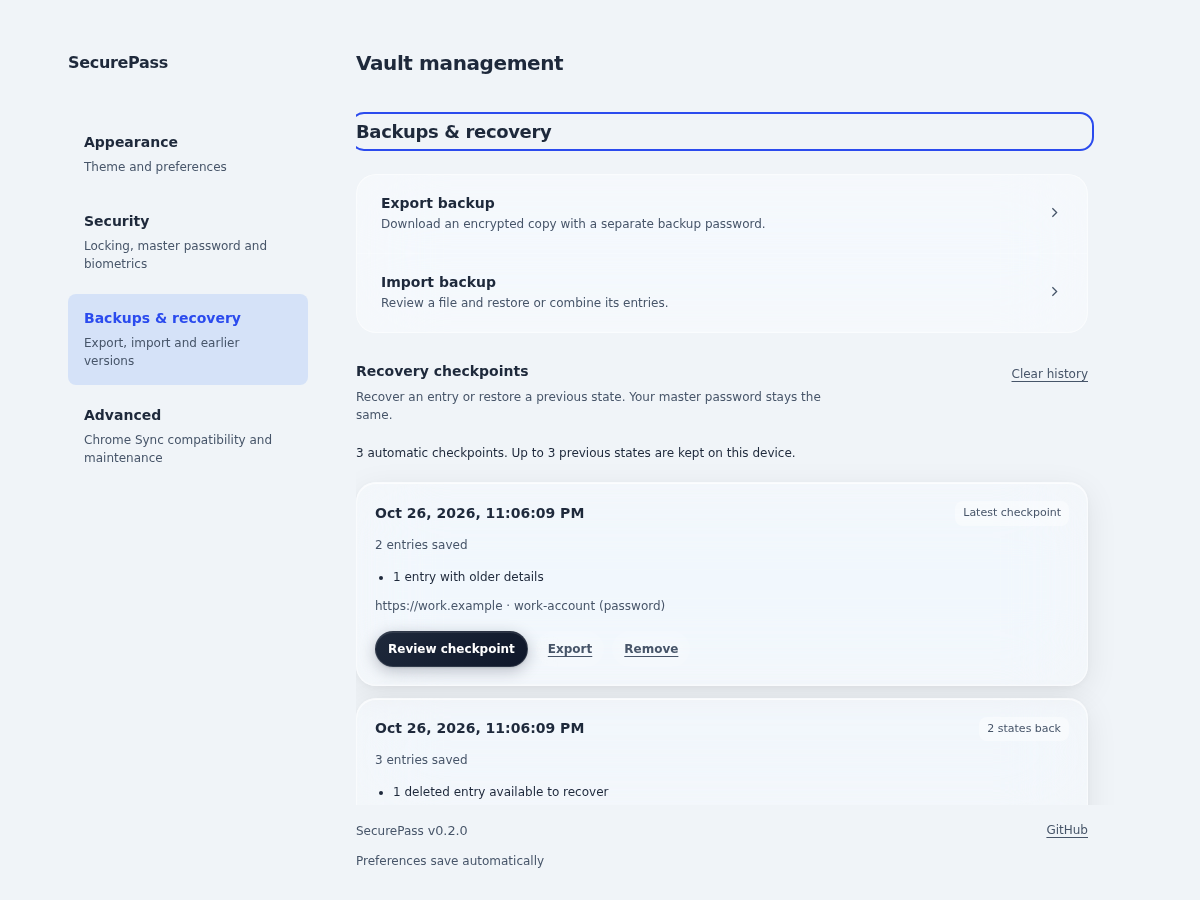
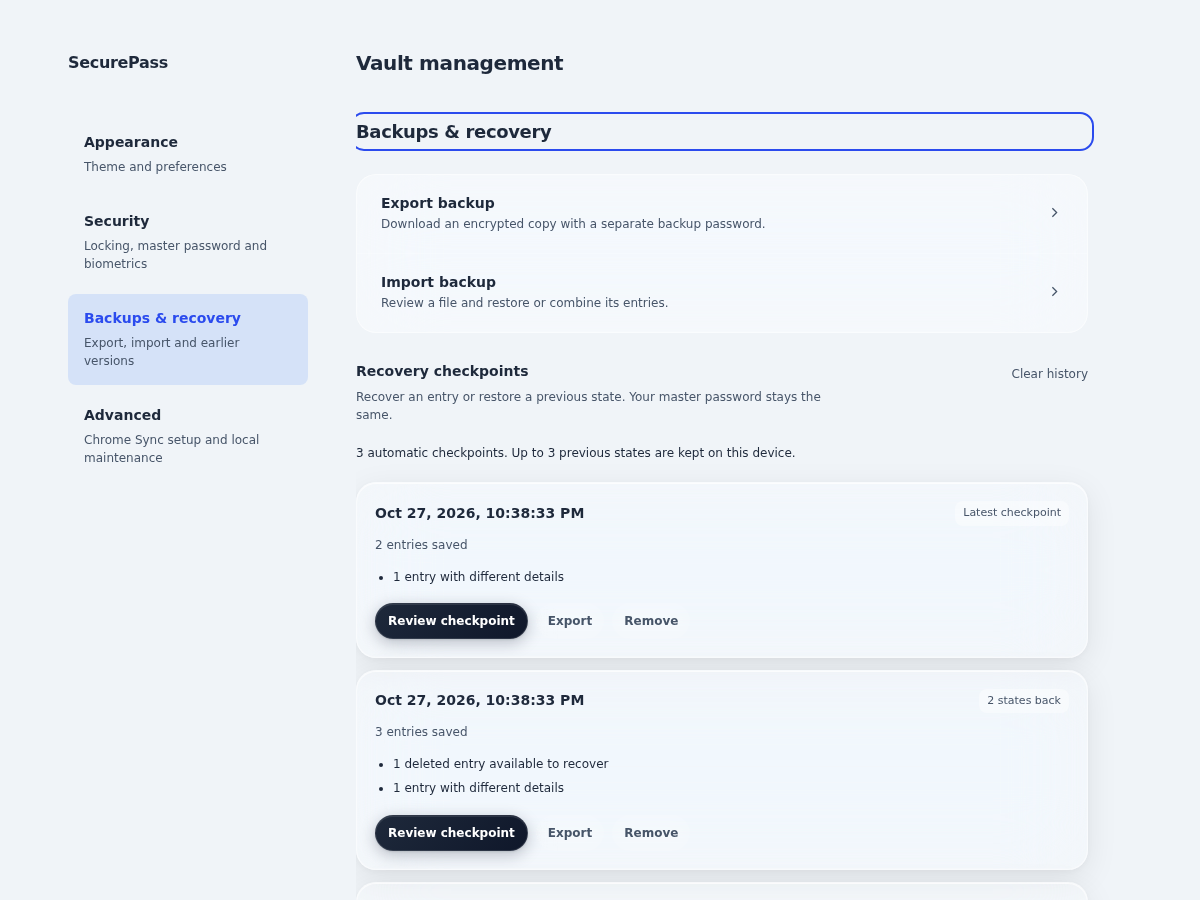
fix: simplify checkpoint cards and clarify restore details

diff --git a/popup/modules/checkpoints.js b/popup/modules/checkpoints.js
@@ -8,7 +8,6 @@ import { reviewCheckpoint, attachCheckpointReviewListeners } from './checkpointR
 const $ = id => document.getElementById(id);
 const date = value => value && Number.isFinite(new Date(value).getTime()) ? new Intl.DateTimeFormat(undefined, { dateStyle: 'medium', timeStyle: 'medium' }).format(new Date(value)) : 'Date unavailable';
 const plural = (count, word) => `${count} ${count === 1 ? word : word.endsWith('entry') ? word.replace(/entry$/, 'entries') : `${word}s`}`;
-const account = entry => `${entry.site}${entry.username ? ` · ${entry.username}` : ''}`;
 
 export function renderCheckpoints(snapshots) {
   const list = $('snapshotList');
@@ -44,14 +43,10 @@ export function renderCheckpoints(snapshots) {
     row.append(heading, description);
     if (local && !locked && !item.needsPassword) {
       const differences = document.createElement('ul'); differences.className = 'checkpoint-differences';
-      const lines = [item.missing ? `${plural(item.missing, 'deleted entry')} available to recover` : '', item.changed ? `${plural(item.changed, 'entry')} with older details` : '', item.newer ? `${plural(item.newer, 'entry')} added since this checkpoint` : ''].filter(Boolean);
+      const lines = [item.missing ? `${plural(item.missing, 'deleted entry')} available to recover` : '', item.changed ? `${plural(item.changed, 'entry')} with different details` : '', item.newer ? `${plural(item.newer, 'entry')} added since this checkpoint` : ''].filter(Boolean);
       if (!lines.length) lines.push('Same contents as your current vault');
       for (const line of lines) { const li = document.createElement('li'); li.textContent = line; differences.append(li); }
       row.append(differences);
-      if (item.examples?.length) {
-        const examples = document.createElement('p'); examples.className = 'checkpoint-examples row-sub';
-        examples.textContent = item.examples.map(entry => `${account(entry)}${entry.change === 'changed' ? ` (${entry.fields.join(', ')})` : ''}`).join(' · '); row.append(examples);
-      }
     }
     const actions = document.createElement('div'); actions.className = 'snapshot-actions';
     const choices = local

diff --git a/popup/popup.html b/popup/popup.html
@@ -480,7 +480,7 @@
                 <p id="checkpointReviewEmpty" class="row-sub" role="status" hidden></p>
                 <div id="checkpointReviewEntries" class="checkpoint-review-entries" aria-label="Entries compared with your current vault"></div>
                 <button id="checkpointReviewMore" type="button" class="secondary compact-btn checkpoint-review-more" hidden>Show more entries</button>
-                <section class="checkpoint-review-full" aria-labelledby="checkpointReviewFullTitle"><h5 id="checkpointReviewFullTitle">Restore the whole checkpoint</h5><p class="row-sub">Replace all current entries with this saved state. Your master password and biometric setup stay the same.</p><button id="checkpointReviewFullRestore" type="button" class="secondary compact-btn">Review full restore</button><p id="checkpointReviewFullHelp" class="row-sub" hidden>This checkpoint already matches your vault.</p></section>
+                <section class="checkpoint-review-full" aria-labelledby="checkpointReviewFullTitle"><h5 id="checkpointReviewFullTitle">Restore the whole checkpoint</h5><p class="row-sub">Replace all current entries with this saved state. Entries added since this checkpoint will be removed. Your master password and biometric setup stay the same.</p><button id="checkpointReviewFullRestore" type="button" class="secondary compact-btn">Review full restore</button><p id="checkpointReviewFullHelp" class="row-sub" hidden>This checkpoint already matches your vault.</p></section>
               </section>
             </section>
             <section id="advancedSection" class="settings-section" aria-labelledby="advancedHeading" hidden>

diff --git a/popup/modules/checkpointReview.js b/popup/modules/checkpointReview.js
@@ -82,8 +82,8 @@ function renderEntries(current) {
     const username = document.createElement('p'); username.className = 'row-sub'; username.textContent = entry.username || 'No username';
     const description = document.createElement('p'); description.className = 'checkpoint-entry-state';
     description.textContent = entry.change === 'missing' ? 'Deleted entry'
-      : entry.change === 'changed' ? `Different ${changedFields(entry)}`
-        : entry.change === 'newer' ? 'Added later · removed by full restore' : 'Matches your current vault';
+      : entry.change === 'changed' ? `Different fields: ${changedFields(entry)}`
+        : entry.change === 'newer' ? 'Added since this checkpoint · removed by full restore' : 'Matches your current vault';
     copy.append(title, username, description); row.append(copy);
     if (['missing', 'changed'].includes(entry.change)) {
       const button = document.createElement('button'); button.type = 'button'; button.className = 'secondary compact-btn'; button.dataset.recoverEntry = entry.id;

diff --git a/popup/settings.css b/popup/settings.css
@@ -735,11 +735,6 @@ body:has(.settings-panel[aria-hidden='false']) > .app-container {
   line-height: 1.6;
 }
 
-.snapshot-item .checkpoint-examples {
-  margin: 10px 0 0;
-  overflow-wrap: anywhere;
-}
-
 .checkpoint-section-heading {
   display: flex;
   flex-wrap: wrap;

diff --git a/docs/CHECKPOINT_REVIEW.md b/docs/CHECKPOINT_REVIEW.md
@@ -6,6 +6,8 @@
 
 Each local checkpoint card has one primary **Review checkpoint** action (or **Unlock to review** while locked), with Export/Remove secondary. The same entry point handles explicit migration of older protection before opening the comparison. Archived Sync copies retain their separate existing workflow.
 
+Cards show only the date, relative state and aggregate saved/deleted/different/newer counts. Website, username and changed-field examples appear only after **Review checkpoint**. Differences are described as **with different details**, without implying that the current details are incorrect. Review labels changed fields explicitly and identifies entries added since the checkpoint as removed by a full restore; the full-restore section also explains this consequence before confirmation.
+
 Review is an in-section view rather than an operation dialog. It shows the checkpoint date, saved/deleted/different/newer counts, a website/username search and the differing entries. Every missing or changed entry has its own **Recover entry** or **Restore saved details** action. A short confirmation identifies only that entry and its changed fields; there is no entry-selection dropdown. Unchanged and current-only entries have no recovery action. Matching saved entries can be shown explicitly. Lists render 50 rows at a time and support loading more without hiding entries from search.
 
 A separated **Restore the whole checkpoint** area at the bottom leads to **Review full restore**, then the existing explicit full-restore confirmation with removal counts and effects. Master-password/biometric preservation, automatic checkpoint creation and Sync behavior remain those of the checkpoint implementation. Empty/matching checkpoints disable full restore.

diff --git a/docs/VALIDATION.md b/docs/VALIDATION.md
@@ -2,6 +2,10 @@
 
 All automated scenarios use fictional data and disposable browser profiles. No real vault, master password or export is required.
 
+## Checkpoint card summaries — 2026-10-27
+
+Checkpoint cards now show aggregate counts without website, username or changed-field examples. Account identities and explicit **Different fields** labels remain inside **Review checkpoint**. The full-restore section and current-only rows explain removal of entries added since the checkpoint. **npm run check** passed for 93 JavaScript modules; **npm run test:checkpoints-browser** passed, including summary/detail separation, per-entry and whole-vault recovery, stale comparisons, lock cleanup, search/pagination and light/dark layouts down to 320 × 480. The nine checkpoint-review captures were refreshed and visually inspected. **git diff --check** passed. This copy/layout change does not add evidence of physical-authenticator or actual toolbar compatibility.
+
 ## Account suggestions and inline tools — 2026-10-27
 
 [The account-prompt contract](ACCOUNT_PROMPTS.md) explains submission-triggered proposals and the redesigned popup suggestion, closed-shadow key menu and extension-owned confirmation. Proposals remain temporary and never establish login success. Save/update is explicit, same-origin and revision-checked, with notes/identity preserved. Cancellation retains the proposal; dismissal, successful save, expiry and vault lock remove it. Known identical logins are suppressed, including redundant proposals discovered after unlock. Master input and PRF remain outside the visited page. Public presentation settings are available to auth; private management and whole-vault disclosure remain forbidden.
